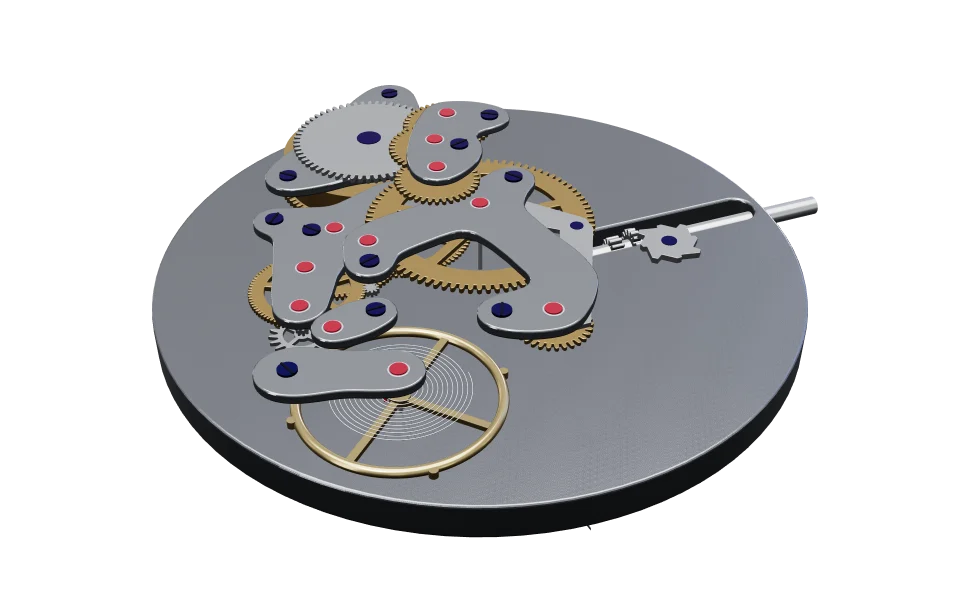
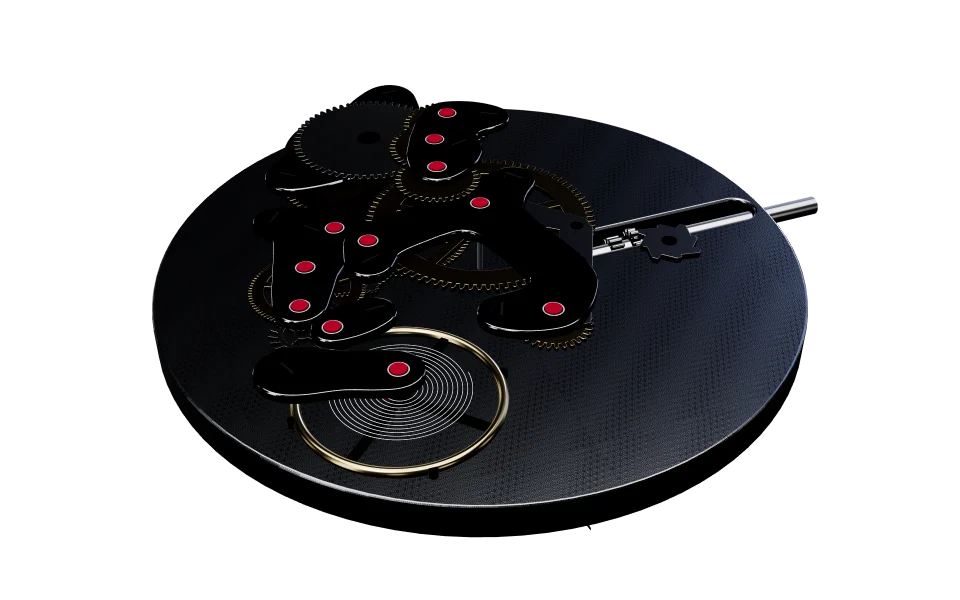
feat(lighting): contrast studio — no reflection fill, stronger key and rim
Picked from five rendered candidates: the dim dome made steel read flat grey. The thumbnail route
also takes ?theme= for light renders.

diff --git a/src/scene/studioEnv.ts b/src/scene/studioEnv.ts
@@ -1,29 +1,12 @@
 import * as THREE from 'three';
 import { RoomEnvironment } from 'three/examples/jsm/environments/RoomEnvironment.js';
 
-// A dome shaded from `top` overhead through `horizon` to `bottom` underneath (linear radiance).
-function dome(top: number, horizon: number, bottom: number) {
-  const g = new THREE.SphereGeometry(40, 32, 16);
-  const pos = g.getAttribute('position');
-  const colors = new Float32Array(pos.count * 3);
-  for (let i = 0; i < pos.count; i++) {
-    const y = pos.getY(i) / 40;
-    const v = y >= 0 ? horizon + (top - horizon) * Math.sqrt(y) : horizon + (bottom - horizon) * Math.sqrt(-y);
-    colors.set([v, v, v * 1.03], i * 3);
-  }
-  g.setAttribute('color', new THREE.BufferAttribute(colors, 3));
-  return new THREE.Mesh(g, new THREE.MeshBasicMaterial({ vertexColors: true, side: THREE.BackSide }));
-}
-
-export const DOME = { dark: [0.45, 0.15, 0.01] as const };
-
 // Same studio as the approved prototype (v8): emissive softbox and strip planes aimed at the watch, prefiltered once.
 // drei's Lightformer environment rendered noticeably dimmer and patchier than this for the same layout.
 export function buildStudioEnvironments(gl: THREE.WebGLRenderer) {
   const pmrem = new THREE.PMREMGenerator(gl);
   const studio = new THREE.Scene();
   studio.background = new THREE.Color(0x000000);
-  studio.add(dome(...DOME.dark));
   const box = (w: number, h: number, x: number, y: number, z: number, color: number, intensity: number, into: THREE.Scene = studio) => {
     const m = new THREE.Mesh(
       new THREE.PlaneGeometry(w, h),

diff --git a/src/dev/start.tsx b/src/dev/start.tsx
@@ -26,11 +26,13 @@ export async function startDev(base: string) {
 async function startThumb(base: string) {
   const [kind, ...rest] = location.pathname.slice(`${base}dev/thumb`.length).replace(/^\/+|\/+$/g, '').split('/');
   const id = rest.join('/');
-  const scale = Number(new URLSearchParams(location.search).get('scale') ?? 2);
+  const q = new URLSearchParams(location.search);
+  const scale = Number(q.get('scale') ?? 2);
+  const theme = q.get('theme') === 'light' ? 'light' : 'dark';
   const watch = kind === 'watches' ? watches[id] : undefined;
   const caliber = calibers[watch?.caliberId ?? id];
   // Free mode shows the automatic works with the rotor lifted off; paused holds the pose.
-  if (caliber) initAppStore(caliber, { mode: kind === 'calibers' ? 'free' : 'intro', stepIndex: 0, lang: 'en', theme: 'dark', quality: 'high', paused: true });
+  if (caliber) initAppStore(caliber, { mode: kind === 'calibers' ? 'free' : 'intro', stepIndex: 0, lang: 'en', theme, quality: 'high', paused: true });
   window.__thumbs = { watches: Object.keys(watches).sort(), calibers: Object.keys(calibers).sort() };
   document.body.style.background = 'transparent';
   const i18n = await createI18n('en');

diff --git a/src/scene/looks.ts b/src/scene/looks.ts
@@ -18,13 +18,15 @@ export type Look = {
   shadowOpacity: number;
 };
 
+// Chosen from five candidates (lighting preset "C"): no fill in the reflections and a stronger key and rim, so steel
+// keeps deep blacks between its highlights instead of reading flat grey.
 export const LOOKS: Record<Theme, Look> = {
   dark: {
-    background: '#0b0b0d', exposure: 1, envIntensity: 1.1,
-    rimColor: '#bfd0ff', key: 1.1, keyColor: '#ffffff', rim: 0.4, shadowOpacity: 0.5,
+    background: '#0b0b0d', exposure: 1, envIntensity: 1.0,
+    rimColor: '#bfd0ff', key: 1.6, keyColor: '#ffffff', rim: 0.8, shadowOpacity: 0.5,
   },
   light: {
-    background: '#ecebe7', exposure: 1, envIntensity: 0.85,
-    rimColor: '#ffffff', key: 1.0, keyColor: '#ffffff', rim: 0.3, shadowOpacity: 0.22,
+    background: '#ecebe7', exposure: 1, envIntensity: 0.7,
+    rimColor: '#ffffff', key: 1.4, keyColor: '#ffffff', rim: 0.5, shadowOpacity: 0.22,
   },
 };
